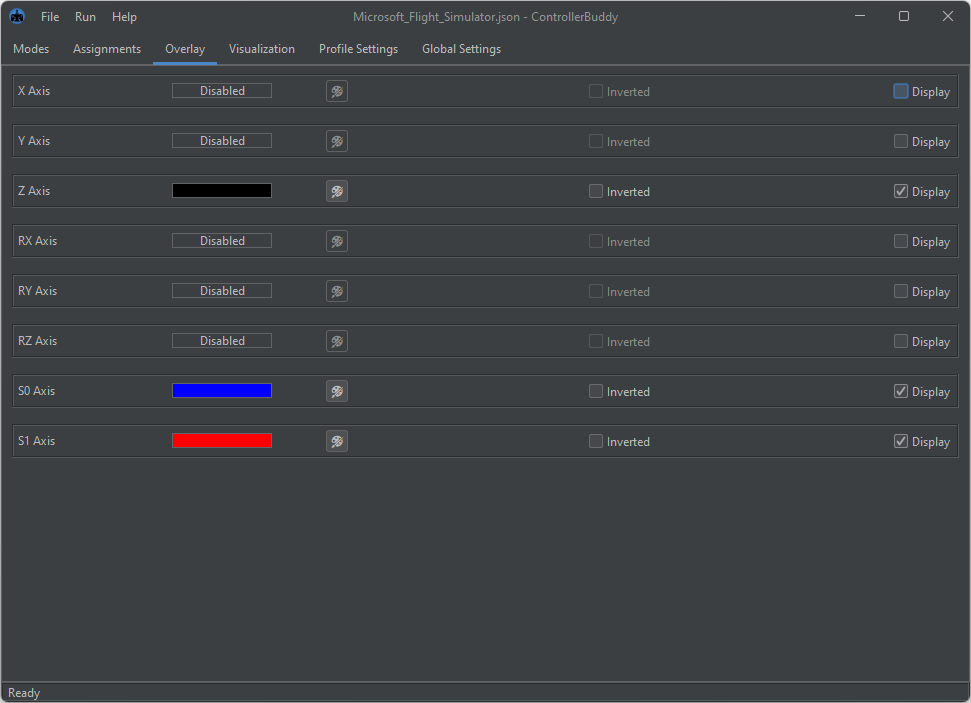
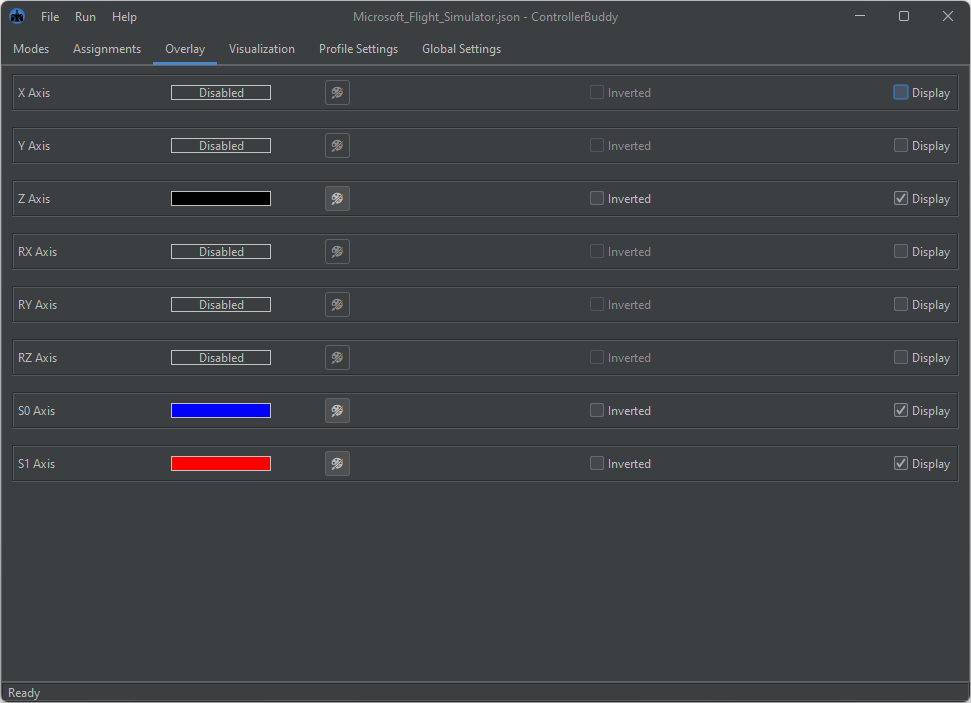
Cleaned up button and label dimension definitions

diff --git a/src/main/java/de/bwravencl/controllerbuddy/gui/Main.java b/src/main/java/de/bwravencl/controllerbuddy/gui/Main.java
@@ -225,11 +225,15 @@ public final class Main {
 	public static final int DEFAULT_HGAP = 10;
 	public static final int DEFAULT_VGAP = 10;
 	@SuppressWarnings("exports")
-	public static final Dimension BUTTON_DIMENSION = new Dimension(120, 25);
-	@SuppressWarnings("exports")
 	public static final Color TRANSPARENT = new Color(255, 255, 255, 0);
 	public static final String SWAPPED_SYMBOL = "⇆";
 	static final int DEFAULT_OVERLAY_SCALING = 1;
+	static final int BUTTON_DIMENSION_HEIGHT = 25;
+	@SuppressWarnings("exports")
+	public static final Dimension BUTTON_DIMENSION = new Dimension(120, BUTTON_DIMENSION_HEIGHT);
+	@SuppressWarnings({ "exports", "SuspiciousNameCombination" })
+	public static final Dimension SQUARE_BUTTON_DIMENSION = new Dimension(BUTTON_DIMENSION_HEIGHT,
+			BUTTON_DIMENSION_HEIGHT);
 	private static final Options options = new Options();
 	private static final Logger log = Logger.getLogger(Main.class.getName());
 	private static final String PROFILE_FILE_EXTENSION = "json";
@@ -264,6 +268,8 @@ public final class Main {
 	private static final String SVG_ID_Y = "y";
 	private static final int SETTINGS_LABEL_DIMENSION_HEIGHT = 15;
 	private static final Dimension SETTINGS_LABEL_DIMENSION = new Dimension(160, SETTINGS_LABEL_DIMENSION_HEIGHT);
+	private static final Dimension OVERLAY_SETTINGS_LABEL_DIMENSION = new Dimension(100,
+			SETTINGS_LABEL_DIMENSION_HEIGHT);
 	private static final Dimension CONNECTION_SETTINGS_LABEL_DIMENSION = new Dimension(80,
 			SETTINGS_LABEL_DIMENSION_HEIGHT);
 	private static final FlowLayout DEFAULT_FLOW_LAYOUT = new FlowLayout(FlowLayout.LEFT, DEFAULT_HGAP, DEFAULT_VGAP);
@@ -2903,7 +2909,7 @@ public final class Main {
 					GridBagConstraints.FIRST_LINE_START, GridBagConstraints.HORIZONTAL, GRID_BAG_ITEM_INSETS, 0, 0));
 
 			final var modeNoLabel = new JLabel(MessageFormat.format(strings.getString("MODE_LABEL_NO"), i + 1));
-			modeNoLabel.setPreferredSize(new Dimension(100, 15));
+			modeNoLabel.setPreferredSize(OVERLAY_SETTINGS_LABEL_DIMENSION);
 			modePanel.add(modeNoLabel, new GridBagConstraints(0, 0, 1, 1, 0d, 0d, GridBagConstraints.CENTER,
 					GridBagConstraints.NONE, LIST_ITEM_INNER_INSETS, 0, 0));
 
@@ -3023,7 +3029,7 @@ public final class Main {
 
 			final var virtualAxisLabel = new JLabel(
 					MessageFormat.format(strings.getString("AXIS_LABEL"), virtualAxis.toString()));
-			virtualAxisLabel.setPreferredSize(new Dimension(100, 15));
+			virtualAxisLabel.setPreferredSize(OVERLAY_SETTINGS_LABEL_DIMENSION);
 			indicatorPanel.add(virtualAxisLabel, new GridBagConstraints(0, 0, 1, 1, 0d, 0d, GridBagConstraints.CENTER,
 					GridBagConstraints.NONE, LIST_ITEM_INNER_INSETS, 0, 0));
 
@@ -3040,12 +3046,13 @@ public final class Main {
 			}
 			colorLabel.setHorizontalAlignment(SwingConstants.CENTER);
 
-			colorLabel.setPreferredSize(new Dimension(100, 15));
+			colorLabel.setPreferredSize(OVERLAY_SETTINGS_LABEL_DIMENSION);
 			colorLabel.setBorder(BorderFactory.createLineBorder(borderColor));
 			indicatorPanel.add(colorLabel, new GridBagConstraints(1, 0, 1, 1, 0.2d, 0d, GridBagConstraints.CENTER,
 					GridBagConstraints.NONE, LIST_ITEM_INNER_INSETS, 0, 0));
 
 			final var colorButton = new JButton(new SelectIndicatorColorAction(virtualAxis));
+			colorButton.setPreferredSize(SQUARE_BUTTON_DIMENSION);
 			colorButton.setEnabled(enabled);
 			indicatorPanel.add(colorButton, new GridBagConstraints(2, 0, 1, 1, 0d, 0d, GridBagConstraints.CENTER,
 					GridBagConstraints.NONE, LIST_ITEM_INNER_INSETS, 0, 0));

diff --git a/src/main/java/de/bwravencl/controllerbuddy/gui/EditActionsDialog.java b/src/main/java/de/bwravencl/controllerbuddy/gui/EditActionsDialog.java
@@ -407,7 +407,7 @@ public final class EditActionsDialog extends JDialog {
 
 		actionButtonsPanel.add(Box.createVerticalGlue());
 		final var addButton = addActionButton(new AddActionAction(), actionButtonsPanel, Main.BUTTON_DIMENSION);
-		actionButtonsPanel.add(Box.createVerticalStrut(Main.BUTTON_DIMENSION.height));
+		actionButtonsPanel.add(Box.createVerticalStrut(Main.BUTTON_DIMENSION_HEIGHT));
 		final var removeButton = addActionButton(new RemoveActionAction(), actionButtonsPanel, Main.BUTTON_DIMENSION);
 		actionButtonsPanel.add(Box.createVerticalGlue());
 
@@ -419,13 +419,11 @@ public final class EditActionsDialog extends JDialog {
 		final var insideBorderInsets = emptyBorder.getBorderInsets();
 		addComponentToPanelFixedSize(copyPastePanel, actionButtonsPanel,
 				new Dimension(Main.BUTTON_DIMENSION.width,
-						Main.BUTTON_DIMENSION.height + titledBorder.getMinimumSize(copyPastePanel).height
+						Main.BUTTON_DIMENSION_HEIGHT + titledBorder.getMinimumSize(copyPastePanel).height
 								+ insideBorderInsets.top + insideBorderInsets.bottom));
 
-		@SuppressWarnings("SuspiciousNameCombination")
-		final var squareButtonDimension = new Dimension(Main.BUTTON_DIMENSION.height, Main.BUTTON_DIMENSION.height);
-		final var copyButton = addActionButton(new CopyActionAction(), copyPastePanel, squareButtonDimension);
-		pasteButton = addActionButton(new PasteActionAction(), copyPastePanel, squareButtonDimension);
+		final var copyButton = addActionButton(new CopyActionAction(), copyPastePanel, Main.SQUARE_BUTTON_DIMENSION);
+		pasteButton = addActionButton(new PasteActionAction(), copyPastePanel, Main.SQUARE_BUTTON_DIMENSION);
 
 		availableActionsList.setSelectionMode(ListSelectionModel.SINGLE_SELECTION);
 		availableActionsList.addListSelectionListener(_ -> {
